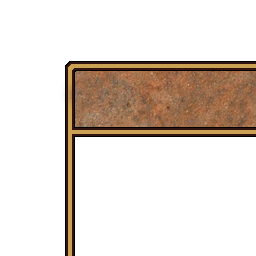
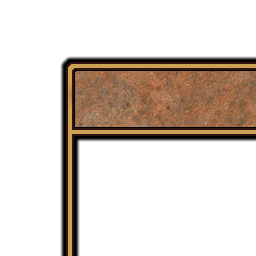
update for tex in windows and buttons

Changed region(s): [[0.2188, 0.2188, 1.0, 1.0]]

diff --git a/src/haven/Button.java b/src/haven/Button.java
@@ -32,13 +32,13 @@ import java.awt.Font;
 import java.awt.image.BufferedImage;
 
 public class Button extends SIWidget {
-    public static final BufferedImage bl = Resource.loadsimg("gfx/hud/buttons/tbtn/left");
-    public static final BufferedImage br = Resource.loadsimg("gfx/hud/buttons/tbtn/right");
-    public static final BufferedImage bt = Resource.loadsimg("gfx/hud/buttons/tbtn/top");
-    public static final BufferedImage bb = Resource.loadsimg("gfx/hud/buttons/tbtn/bottom");
-    public static final BufferedImage dt = Resource.loadsimg("gfx/hud/buttons/tbtn/dtex");
-    public static final BufferedImage ut = Resource.loadsimg("gfx/hud/buttons/tbtn/utex");
-    public static final BufferedImage bm = Resource.loadsimg("gfx/hud/buttons/tbtn/mid");
+    public static final BufferedImage bl = Resource.loadsimg("nurgling/hud/buttons/tbtn/left");
+    public static final BufferedImage br = Resource.loadsimg("nurgling/hud/buttons/tbtn/right");
+    public static final BufferedImage bt = Resource.loadsimg("nurgling/hud/buttons/tbtn/top");
+    public static final BufferedImage bb = Resource.loadsimg("nurgling/hud/buttons/tbtn/bottom");
+    public static final BufferedImage dt = Resource.loadsimg("nurgling/hud/buttons/tbtn/dtex");
+    public static final BufferedImage ut = Resource.loadsimg("nurgling/hud/buttons/tbtn/utex");
+    public static final BufferedImage bm = Resource.loadsimg("nurgling/hud/buttons/tbtn/mid");
     public static final int hs = bl.getHeight(), hl = bm.getHeight();
     public static final Resource click = Loading.waitfor(Resource.local().load("sfx/hud/btn"));
     @Deprecated public static final Resource.Audio lbtdown = Loading.waitfor(Resource.local().load("sfx/hud/lbtn")).layer(Resource.audio, "down");
